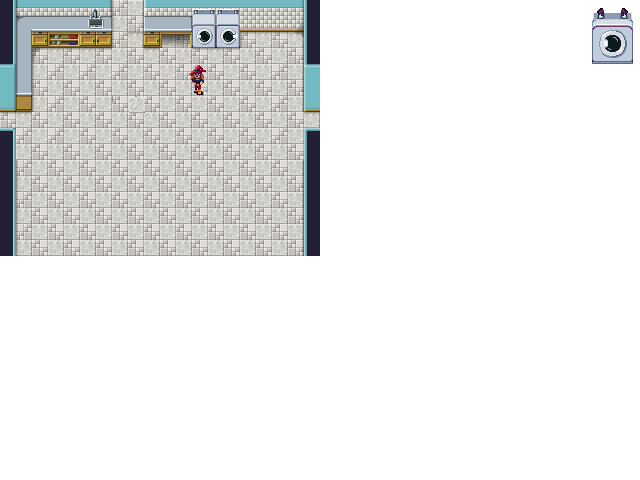
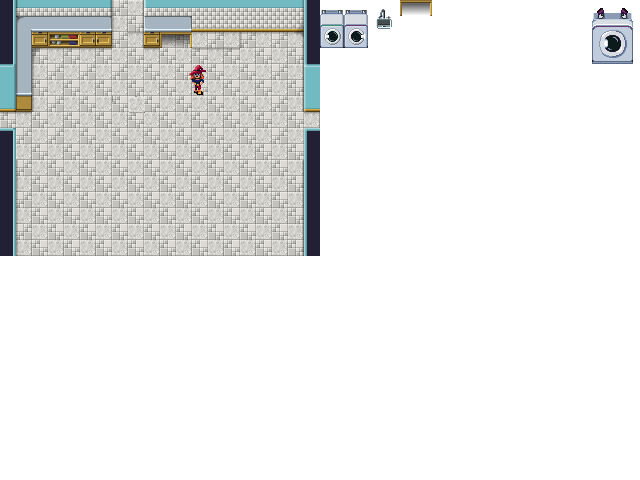
laundry: initial tile placement for scene

diff --git a/js/scenes.js b/js/scenes.js
@@ -431,33 +431,67 @@ const LVL3_FG_GRID = new Grid({
 
 const LTLa = "laundry_tile_a";
 const LTaT = "laundry_tile_a_t";
+const LTaR = "laundry_tile_a_r";
+const LTaL = "laundry_tile_a_l";
+const LaTL = "laundry_tile_a_ttl";
+
 const LTLb = "laundry_tile_b";
 const LTbT = "laundry_tile_b_t";
 const LTbL = "laundry_tile_b_l";
+const LTbR = "laundry_tile_b_r";
+const LbRT = "laundry_tile_b_rtt";
+
 const LTLc = "laundry_tile_c";
+const LTcT = "laundry_tile_c_t";
+const LTcL = "laundry_tile_c_l";
+
 const UWLL = "laundry_wall_l";
 const UWBL = "laundry_wall_bl";
 const UWTL = "laundry_wall_tl";
+const UWLT = "laundry_wall_t";
+const UTTL = "laundry_wall_ttl";
+const ULTT = "laundry_wall_ltt";
+const UTTR = "laundry_wall_ttr";
+const URTT = "laundry_wall_rtt";
+const UWLR = "laundry_wall_r";
+const BTTR = "laundry_bwall_ttr";
+const BRTB = "laundry_bwall_rtb";
+
+const TWLT = "laundry_twall_t";
+const TWRT = "laundry_twall_rtt";
+
+const LCTL = "laundry_ctr_ttl";
+const LCL_ = "laundry_ctr_l";
+const LCLT = "laundry_ctr_ltt";
+const LCT_ = "laundry_ctr_t";
+const LCTR = "laundry_ctr_ttr";
+const LCRT = "laundry_ctr_rtt";
+
+const CBLS = "laundry_cab_lside";
+const CBLD = "laundry_cab_ldoor";
+const CBRD = "laundry_cab_rdoor";
+const CBSH = "laundry_cab_shelf";
+const CBOP = "laundry_cab_open";
 
 const LVL4_BG_GRID = new Grid({
 	width: WIDTH,
 	height: HEIGHT,
 	entries: [
-		UWLL, NOOP, NOOP, NOOP, NOOP, NOOP, NOOP, NOOP, NOOP, NOOP, NOOP, NOOP, NOOP, NOOP, NOOP, NOOP, NOOP, NOOP, NOOP, NOOP,
-		UWLL, NOOP, NOOP, NOOP, NOOP, NOOP, NOOP, NOOP, NOOP, NOOP, NOOP, NOOP, NOOP, NOOP, NOOP, NOOP, NOOP, NOOP, NOOP, NOOP,
-		UWLL, NOOP, NOOP, NOOP, NOOP, NOOP, NOOP, NOOP, NOOP, NOOP, NOOP, NOOP, NOOP, NOOP, NOOP, NOOP, NOOP, NOOP, NOOP, NOOP,
-		UWLL, NOOP, NOOP, LTbT, NOOP, LTbT, NOOP, LTLb, NOOP, LTbT, NOOP, LTbT, NOOP, LTbT, NOOP, LTbT, NOOP, NOOP, NOOP, NOOP,
-		UWBL, NOOP, LTbL, LTLc, LTLb, LTLc, LTLb, LTLc, LTLb, LTLc, LTLb, LTLc, LTLb, LTLc, LTLb, LTLc, LTLb, LTLc, NOOP, NOOP,
-		NOOP, NOOP, NOOP, LTLb, LTLa, LTLb, LTLa, LTLb, LTLa, LTLb, LTLa, LTLb, LTLa, LTLb, LTLa, LTLb, LTLa, LTLb, NOOP, NOOP,
-		NOOP, NOOP, LTbL, LTLc, LTLb, LTLc, LTLb, LTLc, LTLb, LTLc, LTLb, LTLc, LTLb, LTLc, LTLb, LTLc, LTLb, LTLc, NOOP, NOOP,
-		LTaT, LTbT, LTLa, LTLb, LTLa, LTLb, LTLa, LTLb, LTLa, LTLb, LTLa, LTLb, LTLa, LTLb, LTLa, LTLb, LTLa, LTLb, NOOP, NOOP,
-		UWTL, LTLc, LTLb, LTLc, LTLb, LTLc, LTLb, LTLc, LTLb, LTLc, LTLb, LTLc, LTLb, LTLc, LTLb, LTLc, LTLb, LTLc, NOOP, NOOP,
-		UWLL, LTLb, LTLa, LTLb, LTLa, LTLb, LTLa, LTLb, LTLa, LTLb, LTLa, LTLb, LTLa, LTLb, LTLa, LTLb, LTLa, LTLb, NOOP, NOOP,
-		UWLL, NOOP, LTLb, LTLc, LTLb, LTLc, LTLb, LTLc, LTLb, LTLc, LTLb, LTLc, LTLb, LTLc, LTLb, LTLc, LTLb, LTLc, NOOP, NOOP,
-		UWLL, LTbL, LTLa, LTLb, LTLa, LTLb, LTLa, LTLb, LTLa, LTLb, LTLa, LTLb, LTLa, LTLb, LTLa, LTLb, LTLa, LTLb, NOOP, NOOP,
-		UWLL, NOOP, LTLb, LTLc, LTLb, LTLc, LTLb, LTLc, LTLb, LTLc, LTLb, LTLc, LTLb, LTLc, LTLb, LTLc, LTLb, LTLc, NOOP, NOOP,
-		UWLL, LTbL, LTLa, LTLb, LTLa, LTLb, LTLa, LTLb, LTLa, LTLb, LTLa, LTLb, LTLa, LTLb, LTLa, LTLb, LTLa, LTLb, NOOP, NOOP,
-		UWLL, NOOP, LTLb, LTLc, LTLb, LTLc, LTLb, LTLc, LTLb, LTLc, LTLb, LTLc, LTLb, LTLc, LTLb, LTLc, LTLb, LTLc, NOOP, NOOP,
+		UWLL, UTTL, UWLT, UWLT, UWLT, UWLT, ULTT, LTcL, LTbR, UTTR, UWLT, UWLT, UWLT, UWLT, UWLT, UWLT, UWLT, UWLT, URTT, UWLR,
+		UWLL, LCTL, LCT_, LCT_, LCT_, LCT_, LCRT, LTbL, LTaR, LCTR, LCT_, LCRT, TWLT, TWLT, TWLT, TWLT, TWLT, TWLT, TWRT, UWLR,
+		UWLL, LCL_, CBLD, CBSH, NOOP, CBLD, CBRD, LTcL, LTbR, CBLD, LTbT, LTcT, LTbT, LTcT, LTbT, LTcT, LTbT, LTcT, LbRT, UWLR,
+		UWLL, LCL_, LaTL, LTbT, LTaT, LTbT, LTaT, LTLb, LTLa, LTbT, LTLa, LTLb, LTLa, LTLb, LTLa, LTLb, LTLa, LTLb, LTaR, UWLR,
+		UWBL, LCL_, LTbL, LTLc, LTLb, LTLc, LTLb, LTLc, LTLb, LTLc, LTLb, LTLc, LTLb, LTLc, LTLb, LTLc, LTLb, LTLc, LTbR, BTTR,
+		NOOP, LCLT, LTaL, LTLb, LTLa, LTLb, LTLa, LTLb, LTLa, LTLb, LTLa, LTLb, LTLa, LTLb, LTLa, LTLb, LTLa, LTLb, LTaR, NOOP,
+		NOOP, CBLS, LTbL, LTLc, LTLb, LTLc, LTLb, LTLc, LTLb, LTLc, LTLb, LTLc, LTLb, LTLc, LTLb, LTLc, LTLb, LTLc, LTbR, NOOP,
+		LTaT, LTbT, LTLa, LTLb, LTLa, LTLb, LTLa, LTLb, LTLa, LTLb, LTLa, LTLb, LTLa, LTLb, LTLa, LTLb, LTLa, LTLb, LTLa, LTbT,
+		UWTL, LTLc, LTLb, LTLc, LTLb, LTLc, LTLb, LTLc, LTLb, LTLc, LTLb, LTLc, LTLb, LTLc, LTLb, LTLc, LTLb, LTLc, LTLb, BRTB,
+		UWLL, LTLb, LTLa, LTLb, LTLa, LTLb, LTLa, LTLb, LTLa, LTLb, LTLa, LTLb, LTLa, LTLb, LTLa, LTLb, LTLa, LTLb, LTLa, UWLR,
+		UWLL, LTcL, LTLb, LTLc, LTLb, LTLc, LTLb, LTLc, LTLb, LTLc, LTLb, LTLc, LTLb, LTLc, LTLb, LTLc, LTLb, LTLc, LTbR, UWLR,
+		UWLL, LTbL, LTLa, LTLb, LTLa, LTLb, LTLa, LTLb, LTLa, LTLb, LTLa, LTLb, LTLa, LTLb, LTLa, LTLb, LTLa, LTLb, LTaR, UWLR,
+		UWLL, LTcL, LTLb, LTLc, LTLb, LTLc, LTLb, LTLc, LTLb, LTLc, LTLb, LTLc, LTLb, LTLc, LTLb, LTLc, LTLb, LTLc, LTbR, UWLR,
+		UWLL, LTbL, LTLa, LTLb, LTLa, LTLb, LTLa, LTLb, LTLa, LTLb, LTLa, LTLb, LTLa, LTLb, LTLa, LTLb, LTLa, LTLb, LTaR, UWLR,
+		UWLL, LTcL, LTLb, LTLc, LTLb, LTLc, LTLb, LTLc, LTLb, LTLc, LTLb, LTLc, LTLb, LTLc, LTLb, LTLc, LTLb, LTLc, LTbR, UWLR,
 	],
 });
 
@@ -465,6 +499,9 @@ const LVL4_MID_GRID = new Grid({
 	width: WIDTH,
 	height: HEIGHT,
 });
+LVL4_MID_GRID.set(CBOP, 10, 2);
+LVL4_MID_GRID.set("wash_dryer", 12, 0);
+LVL4_MID_GRID.set("laundry_sink", 5, 0);
 
 const LEVELS = [
 	{
@@ -571,7 +608,7 @@ const LEVELS = [
 class GameScene extends Scene {
 	constructor() {
 		super();
-		this.levelIndex = 2;
+		this.levelIndex = 3;
 		entitiesManager.onCollision('playerProjectile', 'enemy', (projectile, enemy) => {
 			enemy.hurt(projectile.damage);
 			projectile.die();

diff --git a/js/assets.js b/js/assets.js
@@ -402,12 +402,43 @@ const assetDefs = {
 	  {id: "laundry_wall_l", kind: "sprite", width: 16, height: 16, 		xoffset: 16*0, yoffset: 16*0},
 	  {id: "laundry_wall_bl", kind: "sprite", width: 16, height: 48, 		xoffset: 16*0, yoffset: 16*4},
 	  {id: "laundry_wall_tl", kind: "sprite", width: 16, height: 48, 		xoffset: 16*0, yoffset: 16*8},
+	  {id: "laundry_wall_t", kind: "sprite", width: 16, height: 16, 		xoffset: 16*2, yoffset: 16*0},
+	  {id: "laundry_wall_ttl", kind: "sprite", width: 16, height: 16, 		xoffset: 16*1, yoffset: 16*0},
+	  {id: "laundry_wall_ltt", kind: "sprite", width: 16, height: 16, 		xoffset: 16*6, yoffset: 16*0},
+	  {id: "laundry_wall_ttr", kind: "sprite", width: 16, height: 16, 		xoffset: 16*9, yoffset: 16*0},
+	  {id: "laundry_wall_rtt", kind: "sprite", width: 16, height: 16, 		xoffset: 16*18, yoffset: 16*0},
+	  {id: "laundry_wall_r", kind: "sprite", width: 16, height: 16, 		xoffset: 16*19, yoffset: 16*0},
+	  {id: "laundry_bwall_ttr", kind: "sprite", width: 16, height: 48, 		xoffset: 16*19, yoffset: 16*4},
+	  {id: "laundry_bwall_rtb", kind: "sprite", width: 16, height: 16, 		xoffset: 16*19, yoffset: 16*8},
+	  {id: "laundry_twall_t", kind: "sprite", width: 16, height: 16, 		xoffset: 16*12, yoffset: 16*1},
+	  {id: "laundry_twall_rtt", kind: "sprite", width: 16, height: 16, 		xoffset: 16*18, yoffset: 16*1},
 	  {id: "laundry_tile_a", kind: "sprite", width: 16, height: 16, 		xoffset: 16*4, yoffset: 16*5},
 	  {id: "laundry_tile_a_t", kind: "sprite", width: 16, height: 16, 		xoffset: 16*0, yoffset: 16*7},
+	  {id: "laundry_tile_a_r", kind: "sprite", width: 16, height: 16, 		xoffset: 16*8, yoffset: 16*1},
+	  {id: "laundry_tile_a_l", kind: "sprite", width: 16, height: 16, 		xoffset: 16*2, yoffset: 16*5},
+	  {id: "laundry_tile_a_ttl", kind: "sprite", width: 16, height: 16, 	xoffset: 16*2, yoffset: 16*3},
 	  {id: "laundry_tile_b", kind: "sprite", width: 16, height: 16, 		xoffset: 16*4, yoffset: 16*4},
 	  {id: "laundry_tile_b_t", kind: "sprite", width: 16, height: 16, 		xoffset: 16*1, yoffset: 16*7},
 	  {id: "laundry_tile_b_l", kind: "sprite", width: 16, height: 16, 		xoffset: 16*2, yoffset: 16*4},
+	  {id: "laundry_tile_b_r", kind: "sprite", width: 16, height: 16, 		xoffset: 16*8, yoffset: 16*0},
+	  {id: "laundry_tile_b_rtt", kind: "sprite", width: 16, height: 16,		xoffset: 16*18, yoffset: 16*2},
 	  {id: "laundry_tile_c", kind: "sprite", width: 16, height: 16, 		xoffset: 16*3, yoffset: 16*4},
+	  {id: "laundry_tile_c_t", kind: "sprite", width: 16, height: 16, 		xoffset: 16*13, yoffset: 16*2},
+	  {id: "laundry_tile_c_l", kind: "sprite", width: 16, height: 16, 		xoffset: 16*7, yoffset: 16*0},
+	  {id: "laundry_ctr_ttl", kind: "sprite", width: 16, height: 16, 		xoffset: 16*1, yoffset: 16*1},
+	  {id: "laundry_ctr_l", kind: "sprite", width: 16, height: 16, 			xoffset: 16*1, yoffset: 16*2},
+	  {id: "laundry_ctr_ltt", kind: "sprite", width: 16, height: 16, 		xoffset: 16*1, yoffset: 16*5},
+	  {id: "laundry_ctr_t", kind: "sprite", width: 16, height: 16, 			xoffset: 16*2, yoffset: 16*1},
+	  {id: "laundry_ctr_rtt", kind: "sprite", width: 16, height: 16, 		xoffset: 16*6, yoffset: 16*1},
+	  {id: "laundry_ctr_ttr", kind: "sprite", width: 16, height: 16, 		xoffset: 16*9, yoffset: 16*1},
+	  {id: "laundry_cab_lside", kind: "sprite", width: 16, height: 16, 		xoffset: 16*1, yoffset: 16*6},
+	  {id: "laundry_cab_ldoor", kind: "sprite", width: 16, height: 16, 		xoffset: 16*2, yoffset: 16*2},
+	  {id: "laundry_cab_rdoor", kind: "sprite", width: 16, height: 16, 		xoffset: 16*6, yoffset: 16*2},
+	  {id: "laundry_cab_shelf", kind: "sprite", width: 32, height: 16, 		xoffset: 16*3, yoffset: 16*2},
+	  {id: "laundry_cab_open", kind: "sprite", width: 32, height: 16, 		xoffset: 16*25, yoffset: 16*0},
+	  {id: "wash_dryer", kind: "sprite", width: 48, height: 48, 			xoffset: 16*20, yoffset: 16*0},
+	  {id: "laundry_sink", kind: "sprite", width: 32, height: 32,			xoffset: 16*23, yoffset: 16*0},
+
 	]},
   ],
   // .mp3 and .ogg are required for sounds, and src should not have extension
